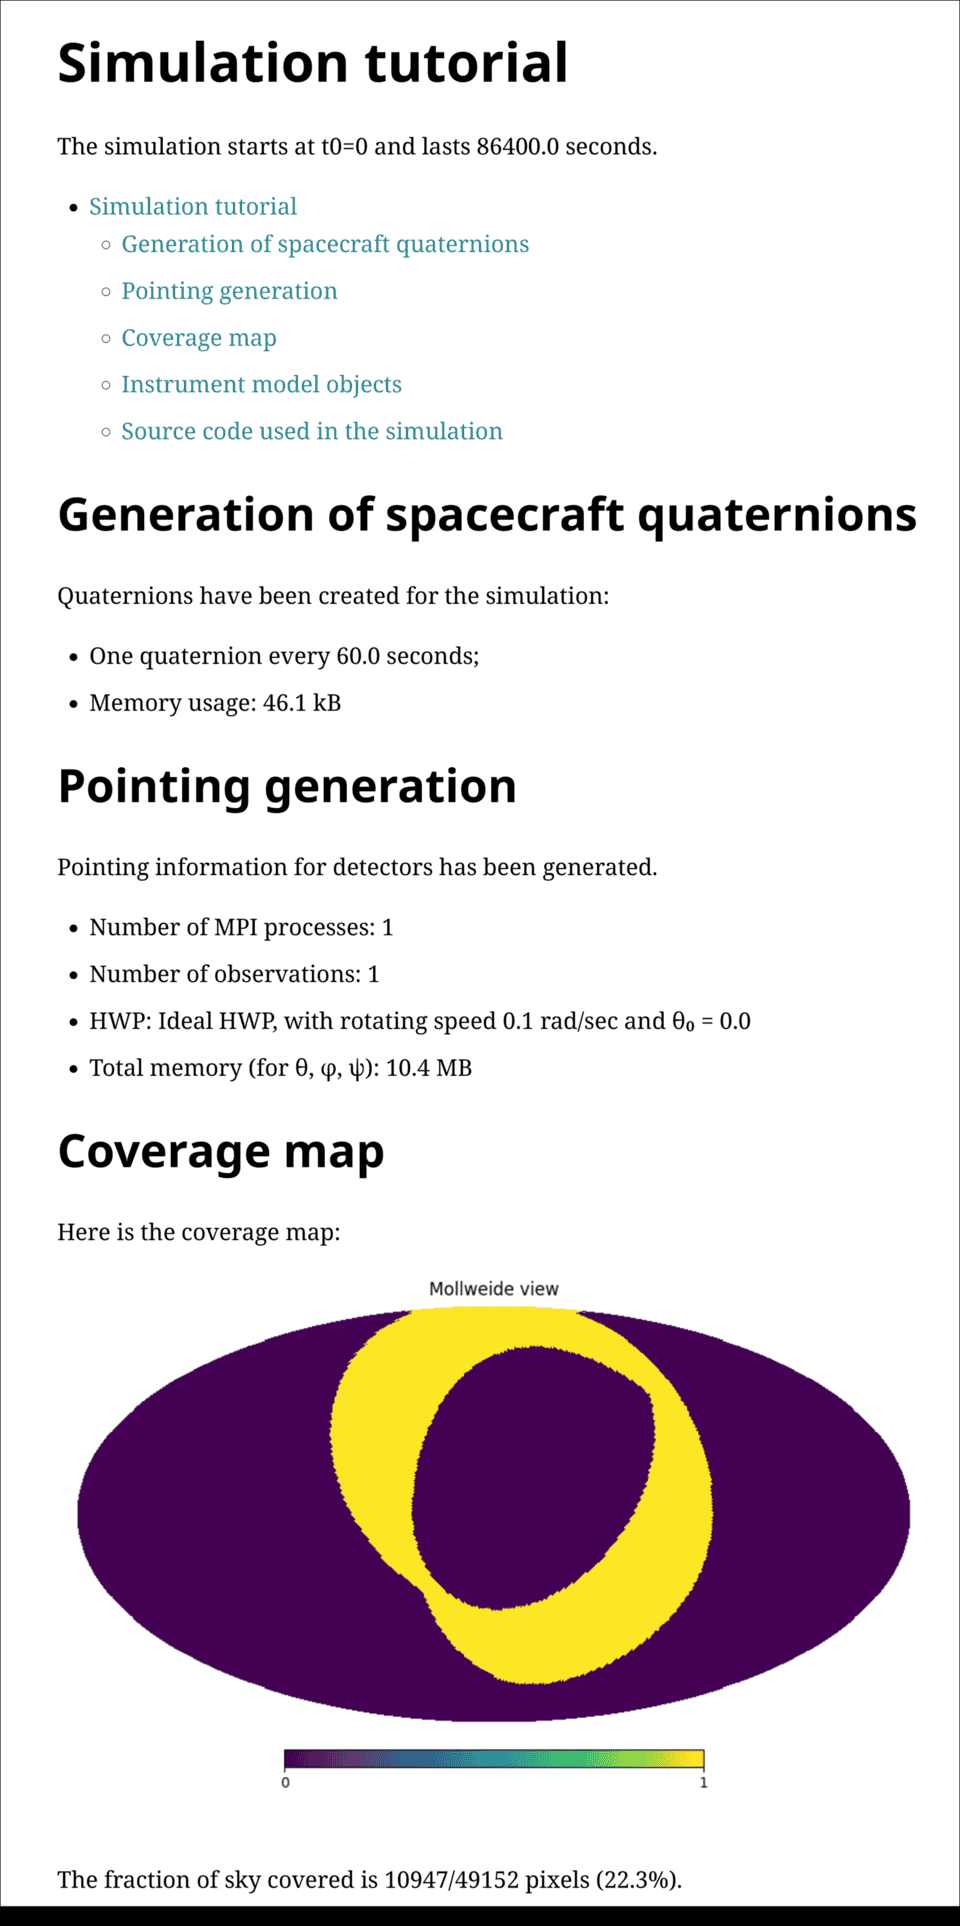
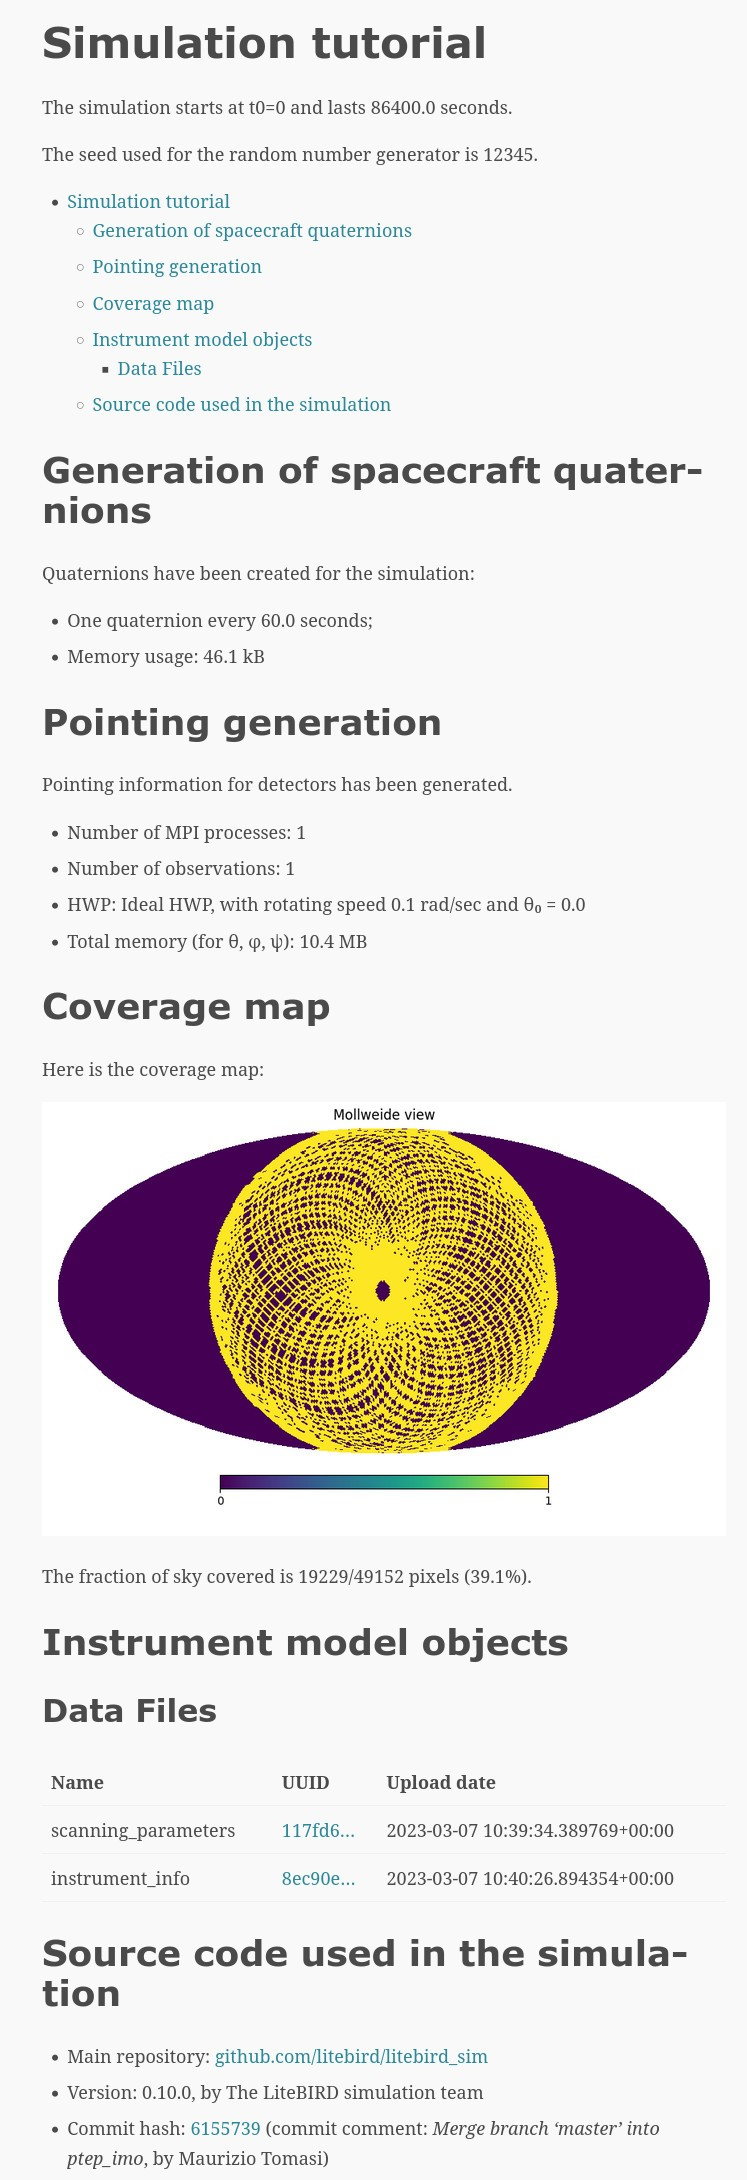
Update doc pages so that they use the PTEP IMO

diff --git a/docs/source/detectors.rst b/docs/source/detectors.rst
@@ -83,26 +83,43 @@ Reading from the IMO
 --------------------
 
 The way information about detectors and frequency channels is stored
-in the IMO closely match the :class:`.DetectorInfo` and
+in the IMO (see :ref:`imo`) closely match the :class:`.DetectorInfo` and
 :class:`.FreqChannelInfo` classes. In fact, they can be retrieved
 easily from the IMO using the static methods
-:meth:`.DetectorInfo.from_imo` and :meth:`.FreqChannelInfo.from_imo`::
+:meth:`.DetectorInfo.from_imo` and :meth:`.FreqChannelInfo.from_imo`.
+
+The following example uses the PTEP IMO to show how to use the API:
+
+.. testcode::
 
   import litebird_sim as lbs
 
-  # You must have configured the IMO before using this!
-  imo = lbs.Imo()
+  # The location of the PTEP IMO is stored in the constant
+  # PTEP_IMO_LOCATION
+  imo = lbs.Imo(flatfile_location=lbs.PTEP_IMO_LOCATION)
 
   det = lbs.DetectorInfo.from_imo(
       imo=imo,
-      url="/releases/v1.3/satellite/LFT/L1-040/"
+      url="/releases/vPTEP/satellite/LFT/L1-040/"
           "000_000_003_QA_040_T/detector_info",
   )
 
+  print(f"The bandcenter for {det.name} is {det.bandcenter_ghz} GHz")
+
   freqch = lbs.FreqChannelInfo.from_imo(
       imo=imo,
-      url="/releases/v1.3/satellite/LFT/L1-040/channel_info",
+      url="/releases/vPTEP/satellite/LFT/L1-040/channel_info",
   )
+
+  print(
+      f"The average bandcenter for {freqch.channel} "
+      f"is {freqch.bandcenter_ghz} GHz"
+  )
+
+.. testoutput::
+
+    The bandcenter for 000_000_003_QA_040_T is 40.0 GHz
+    The average bandcenter for L1-040 is 40.0 GHz
 
 
 Detectors in parameter files
@@ -139,20 +156,20 @@ with four detectors. Here is a summary of its contents:
 
    # This ensures that the mock IMO can be found when generating this
    # HTML page
-   imo = lbs.Imo(
-       flatfile_location=Path(".").parent / ".." / "test" / "mock_imo",
-   )
+   imo = lbs.Imo(flatfile_location=lbs.PTEP_IMO_LOCATION)
 
-   # This UUID refers to an object specifying the information for
-   # a mock frequency channel containing 4 detectors
-   ch = imo.query("/data_files/ff087ba3-d973-4dc3-b72b-b68abb979a90")
+   # This UUID refers to a 140 GHz "channel_info" object.
+   ch = imo.query("/data_files/463e9ea9-c1f0-484d-9bfd-05092851d8f4")
    metadata = ch.metadata
 
    print("Here are the contents of the mock IMO:")
    print(f'Channel: {metadata["channel"]}')
-   print("Detectors in this channel:")
-   for name, obj in zip(metadata["detector_names"],
-                        metadata["detector_objs"]):
+
+   detector_names = metadata["detector_names"]
+   print(f'There are {len(detector_names)} detectors')
+   print("Here are the first 5 of them:")
+   for name, obj in list(zip(metadata["detector_names"],
+                             metadata["detector_objs"]))[0:5]:
        det_obj = imo.query(obj)
        det_metadata = det_obj.metadata
        bandcenter_ghz = det_metadata["bandcenter_ghz"]
@@ -161,12 +178,15 @@ with four detectors. Here is a summary of its contents:
 .. testoutput::
 
     Here are the contents of the mock IMO:
-    Channel: 65 GHz
-    Detectors in this channel:
-      foo1: band center at 65.0 GHz
-      foo2: band center at 66.0 GHz
-      foo3: band center at 67.0 GHz
-      foo4: band center at 68.0 GHz
+    Channel: M1-140
+    There are 366 detectors
+    Here are the first 5 of them:
+      001_002_030_00A_140_T: band center at 140.0 GHz
+      001_002_030_00A_140_B: band center at 140.0 GHz
+      001_002_031_15B_140_T: band center at 140.0 GHz
+      001_002_031_00B_140_B: band center at 140.0 GHz
+      001_002_022_15A_140_T: band center at 140.0 GHz
+
 
 Now, let's turn back to the problem of specifying a set of detectors
 in a parameter file. The following TOML file shows some of the
@@ -190,12 +210,10 @@ The following code will read the TOML file above and produce a list of
    from pathlib import Path
    import litebird_sim as lbs
 
-   # Load a mock IMO that actually defines the UUID listed above
-   imo = lbs.Imo(
-       flatfile_location=Path(".").parent / ".." / "test" / "mock_imo",
-   )
+   imo = lbs.Imo(flatfile_location=lbs.PTEP_IMO_LOCATION)
 
-   # Tell Simulation to load the TOML file shown above
+   # Tell Simulation to use the PTEP IMO and to
+   # load the TOML file shown above
    sim = lbs.Simulation(imo=imo, parameter_file="det_list1.toml")
 
    det_list = lbs.detector_list_from_parameters(
@@ -208,12 +226,13 @@ The following code will read the TOML file above and produce a list of
 
 .. testoutput::
 
-    1. foo1: band center at 65.0 GHz
-    2. foo1: band center at 65.0 GHz
-    3. foo2: band center at 66.0 GHz
-    4. foo_boresight: band center at 65.0 GHz
+    1. 000_000_003_QA_040_T: band center at 40.0 GHz
+    2. 001_002_030_00A_140_T: band center at 140.0 GHz
+    3. 001_002_030_00A_140_B: band center at 140.0 GHz
+    4. foo_boresight: band center at 140.0 GHz
     5. planck30GHz: band center at 28.4 GHz
-    6. foo1: band center at 65.0 GHz
+    6. 000_000_004_QB_040_B: band center at 40.0 GHz
+
 
 You are not forced to use ``detectors`` as the name of the parameter
 in the TOML file, as :func:`.detector_list_from_parameters` accepts a
@@ -236,10 +255,9 @@ each stage of the simulation:
    from pathlib import Path
    import litebird_sim as lbs
 
-   imo = lbs.Imo(
-       flatfile_location=Path(".").parent / ".." / "test" / "mock_imo",
-   )
+   imo = lbs.Imo(flatfile_location=lbs.PTEP_IMO_LOCATION)
 
+   # Tell the Simulation object that we want to use the PTEP IMO
    sim = lbs.Simulation(imo=imo, parameter_file="det_list2.toml")
 
    det_list1 = lbs.detector_list_from_parameters(
@@ -263,10 +281,11 @@ each stage of the simulation:
 
 .. testoutput::
 
-   Detectors to be used in the first simulation:
-   - foo1
-   Detectors to be used in the second simulation:
-   - foo2
+    Detectors to be used in the first simulation:
+    - 000_000_004_QB_040_B
+    Detectors to be used in the second simulation:
+    - 000_000_004_QB_040_T
+
 
 API reference
 -------------

diff --git a/docs/source/tutorial.rst b/docs/source/tutorial.rst
@@ -144,37 +144,33 @@ parameters that describe the instruments being simulated: how many
 detectors there are, what are their properties, etc. These information
 are usually kept in an Instrument MOdel database, IMO for short.
 
-The LiteBIRD IMO is managed using `instrumentdb
+The LiteBIRD IMO is managed using `InstrumentDB
 <https://github.com/ziotom78/instrumentdb>`_, a web-based database,
 but it can be retrieved also as a bundle of files. The LiteBIRD
 simulation framework seamlessy interacts with the IMO database and
 permits to retrieve all the parameters that describe the LiteBIRD
 instruments.
 
-The best way to interact with the IMO is to have a local copy
-installed on your laptop. You should ask permission to the LiteBIRD
-Simulation Team for downloading the IMO from the (protected) site
-`litebird_imo <https://github.com/litebird/litebird_imo>`_. Save it in
-a folder on your computer, e.g., ``/storage/litebird_imo``, and then
-run the following command:
+The simulation framework contains a IMO containing a small
+representation of the instruments as described in the paper
+`*Probing cosmic inflation with the LiteBIRD cosmic microwave background
+polarization survey* <https://academic.oup.com/ptep/article/2023/4/042F01/6835420>`_
+(PTEP, 2022). We will use this small IMO in the tutorial; if you
+want to do some serious work, you should install your own copy
+of the “full” official IMO. Refer to :ref:`imo-configuration` for
+more information.
 
-.. code-block:: text
+Our next example will use the IMO to run something more interesting:
 
-  python -m litebird_sim.install_imo
-
-and run the program interactively to configure the IMO. You typically
-want to use a «local copy»; specify the folder where the file
-``schema.json`` you downloaded before resides (under
-``/storage/litebird_imo/IMO`` in our case). Save the changes by pressing
-``s``, and you will have your IMO configured.
-
-Our next example will use the IMO to run something more interesting::
+.. testcode::
 
   import litebird_sim as lbs
 
+  imo = lbs.Imo(flatfile_location=lbs.PTEP_IMO_LOCATION)
+
   sim = lbs.Simulation(base_path="./tut02", random_seed=12345)
   lft_file = sim.imo.query(
-      "/releases/v1.3/satellite/LFT/instrument_info"
+      "/releases/vPTEP/satellite/LFT/instrument_info"
   )
   sim.append_to_report(
       "The instrument {{ name }} has {{ num }} channels.",
@@ -183,10 +179,7 @@ Our next example will use the IMO to run something more interesting::
   )
   sim.flush()
 
-If you run this program, it will produce a report containing the
-following message:
-
-.. code-block:: text
+.. testoutput::
 
   The instrument LFT has 12 channels.
 
@@ -205,7 +198,7 @@ managed to read the database contents and initialize a set of member
 variables. This is why we have been able to write the next line::
 
   lft_file = sim.imo.query(
-      "/releases/v1.3/satellite/LFT/instrument_info"
+      "/releases/vPTEP/satellite/LFT/instrument_info"
   )
 
 Although the parameter looks like a path to some file, it is a
@@ -252,33 +245,36 @@ report::
   import matplotlib.pylab as plt
   import astropy.units as u
 
+  imo = lbs.Imo(flatfile_location=lbs.PTEP_IMO_LOCATION)
+
   sim = lbs.Simulation(
       base_path="./tut04",
       name="Simulation tutorial",
       start_time=0,
       duration_s=86400.,
       random_seed=12345,
+      imo=imo,
   )
 
   sim.set_scanning_strategy(
-      scanning_strategy=lbs.SpinningScanningStrategy(
-          spin_sun_angle_rad=np.deg2rad(30), # CORE-specific parameter
-          spin_rate_hz=0.5 / 60,     # Ditto
-          # We use astropy to convert the period (4 days) in
-          # seconds
-          precession_rate_hz=1.0 / (4 * u.day).to("s").value,
-      )
+      scanning_strategy=lbs.SpinningScanningStrategy.from_imo(
+          imo=imo,
+          url="/releases/vPTEP/satellite/scanning_parameters",
+      ),
   )
 
   sim.set_instrument(
-      lbs.InstrumentInfo(
-          name="core",
-          spin_boresight_angle_rad=np.deg2rad(65),
+      lbs.InstrumentInfo.from_imo(
+          imo=imo,
+          url="/releases/vPTEP/satellite/LFT/instrument_info",
       ),
   )
 
   sim.set_hwp(lbs.IdealHWP(ang_speed_radpsec=0.1))
 
+  # It is entirely possible to mix up definitions taken from
+  # the IMO with hand-made objects. In this example, we create
+  # a mock detector instead of reading one from the PTEP IMO.
   sim.create_observations(
       detectors=lbs.DetectorInfo(name="foo", sampling_rate_hz=10),
   )
@@ -287,7 +283,11 @@ report::
 
   for cur_obs in sim.observations:
       nside = 64
-      pixidx = healpy.ang2pix(nside, cur_obs.pointings[0, :, 0], cur_obs.pointings[0, :, 1])
+      pixidx = healpy.ang2pix(
+          nside,
+          cur_obs.pointings[0, :, 0],
+          cur_obs.pointings[0, :, 1],
+      )
       m = np.zeros(healpy.nside2npix(nside))
       m[pixidx] = 1
       healpy.mollview(m)
@@ -336,6 +336,8 @@ following things:
    :class:`.Simulation` object. (In this simple example, there is only
    one :class:`.Observation`, but in more complex examples there can
    be many of them.)
+7. The objects that were read from IMO are properly listed in the
+   report.
 
 If you run the example, you will see that the folder ``tut04`` will be
 populated with the following files:
@@ -347,13 +349,13 @@ populated with the following files:
   $
 
 A new file has appeared: ``coverage_map.png``. If you open the file
-``report.html``, you will get the map in the report (here the image
-has been cropped a bit, because the report is longer):
+``report.html``, you will see that the map has been included in the
+report:
 
 .. image:: images/tutorial-coverage-map.png
    :width: 512
    :align: center
-   :alt: Screenshot of part of the tutorial produced by our script
+   :alt: Screenshot of the report produced by our script
 
 
 Creating a signal plus noise timeline 

diff --git a/docs/source/imo.rst b/docs/source/imo.rst
@@ -51,6 +51,29 @@ and the remaining path ``/satellite/scanning_parameters`` points to
 the information you're looking for.
 
 
+.. _imo-configuration:
+
+Configuring the IMO
+-------------------
+
+The best way to interact with the IMO is to have a local copy
+installed on your laptop. You should ask permission to the LiteBIRD
+Simulation Team for downloading the official LiteBIRD IMO from the
+protected site `litebird_imo <https://github.com/litebird/litebird_imo>`_.
+Save it in a folder on your computer, e.g., ``/storage/litebird_imo``,
+and then run the following command:
+
+.. code-block:: text
+
+  python -m litebird_sim.install_imo
+
+This is an interactive program that lets you to configure the IMO.
+You typically want to use a «local copy»; specify the folder where the file
+``schema.json`` you downloaded before resides (under
+``/storage/litebird_imo/IMO`` in our case). Save the changes by pressing
+``s``, and you will have your IMO configured.
+
+
 Local/remote access to the IMO
 ----------------------------------
   
